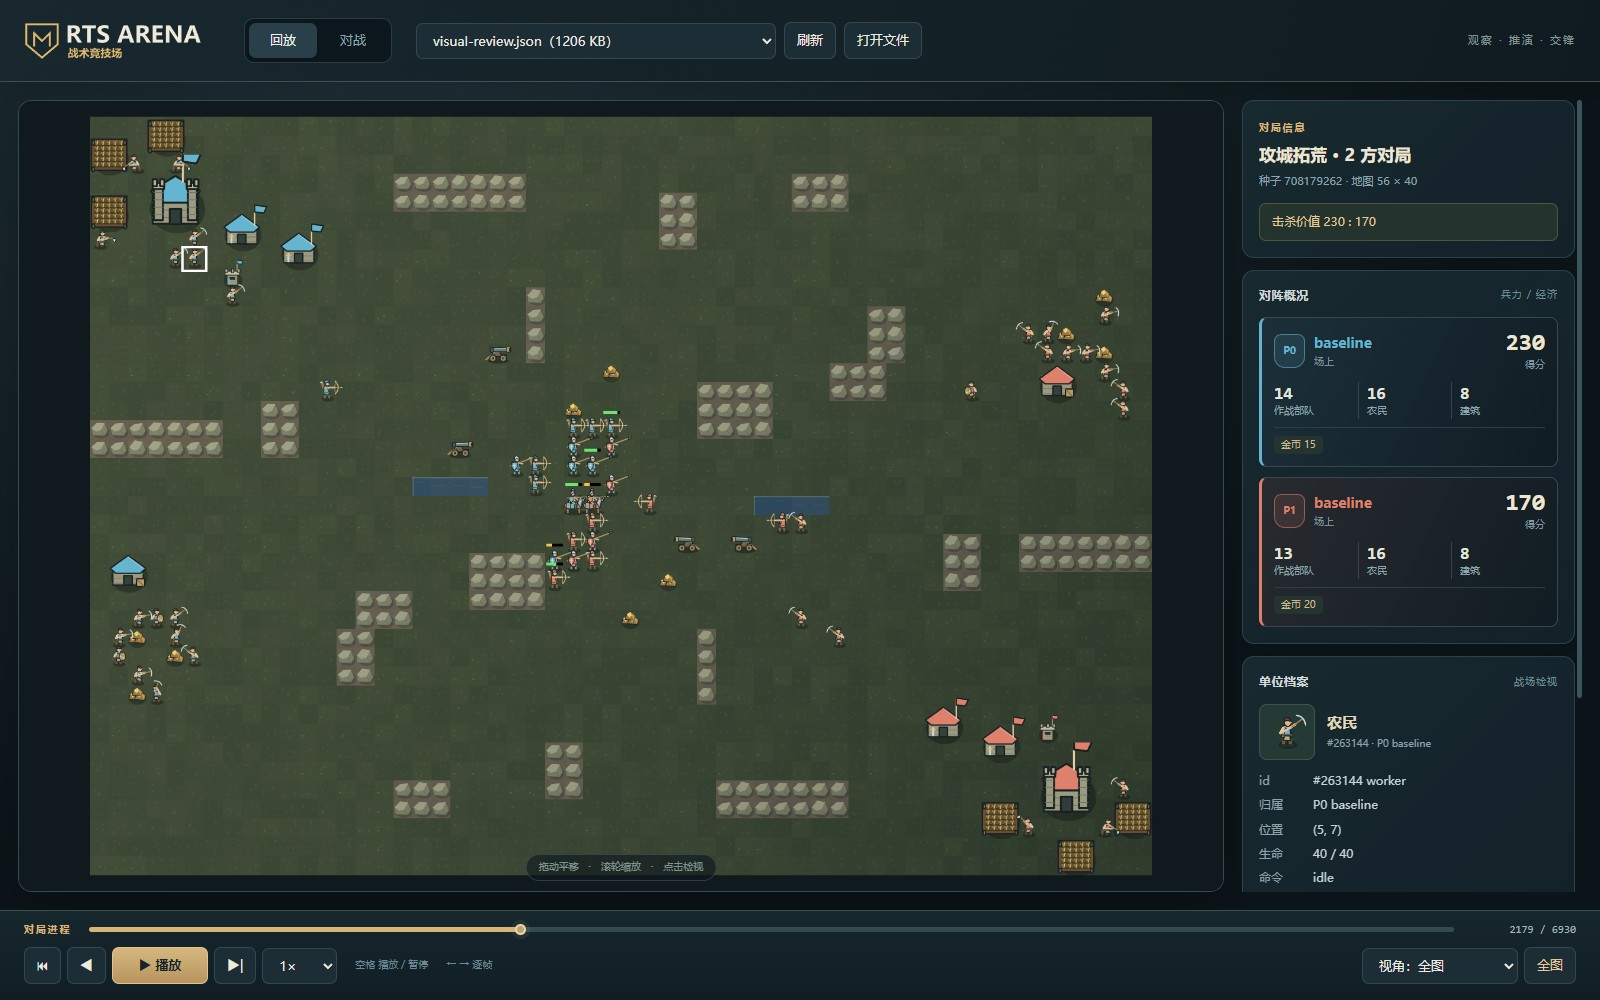
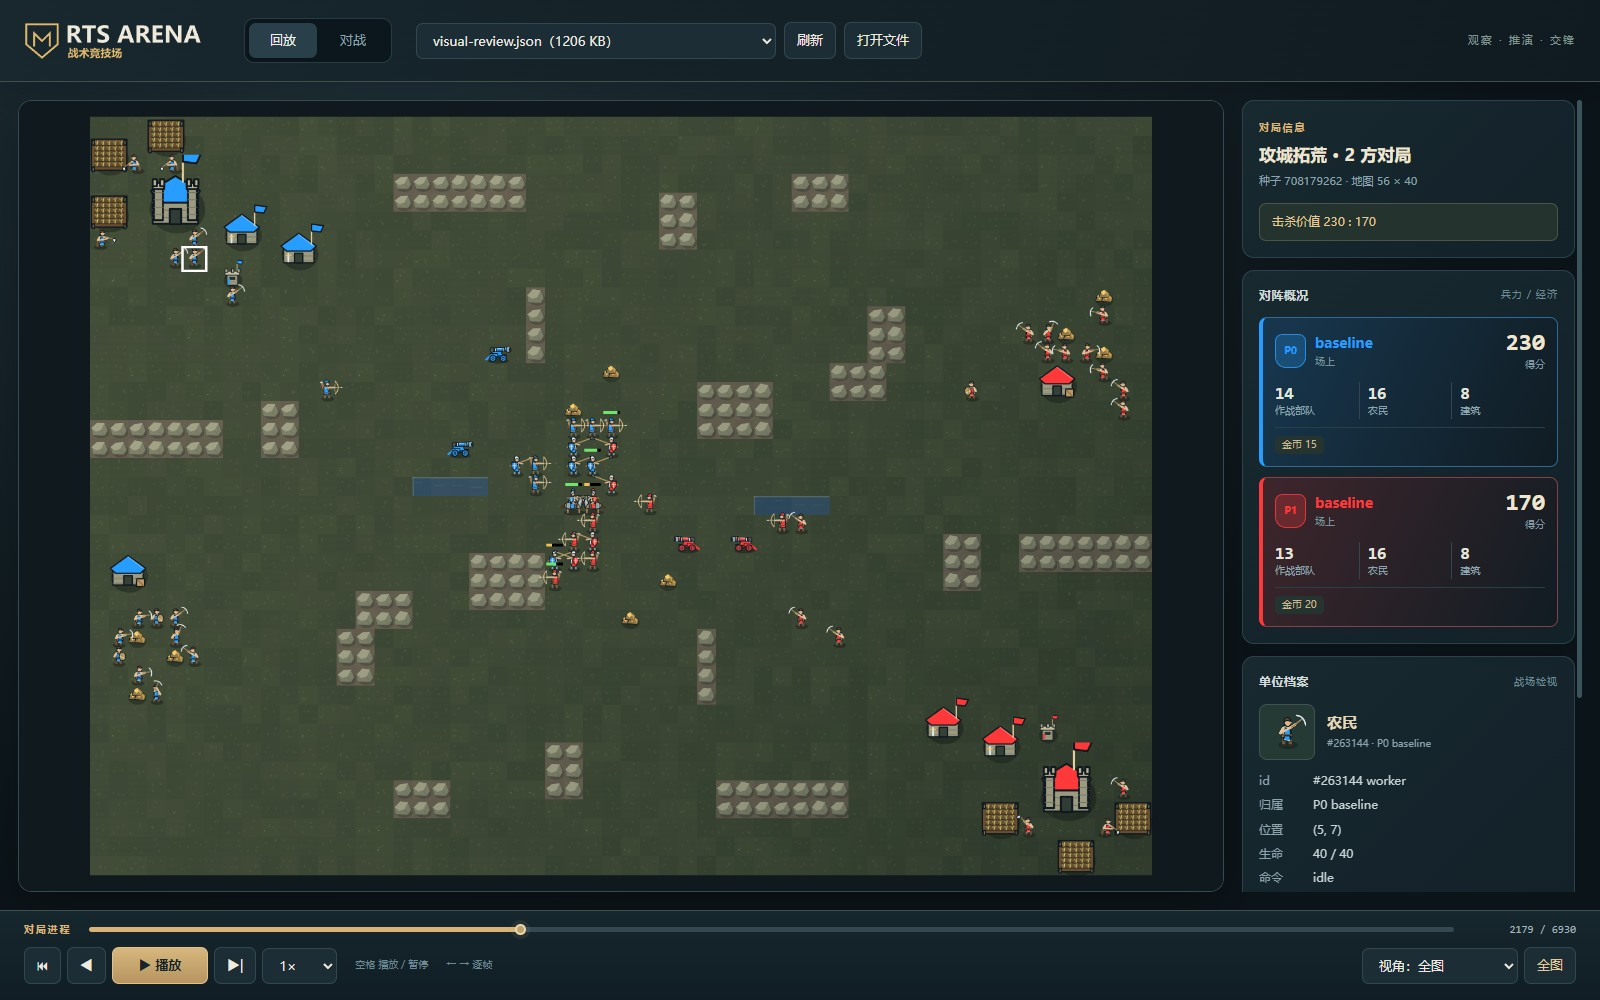
D-240：统一鲜明阵营配色，扩大火炮阵营涂装

diff --git a/src/video/battle-art.ts b/src/video/battle-art.ts
@@ -52,9 +52,9 @@ export interface BattleAttack {
 export function createBattleArt() {
   type Ink = CanvasRenderingContext2D | OffscreenCanvasRenderingContext2D
   const TAU = Math.PI * 2
-  const ink = "#182123"
-  const steel = "#c9d9da"
-  const gold = "#e3b969"
+  const ink = "#10191f"
+  const steel = "#dde8ef"
+  const gold = "#f0c35a"
   const clamp = (v: number) => Math.max(0, Math.min(1, v))
   const noise = (x: number, y: number, n = 0) => {
     let h = Math.imul(x + 113, 374761393) ^ Math.imul(y + 71, 668265263) ^ Math.imul(n + 7, 1274126177)
@@ -169,7 +169,8 @@ export function createBattleArt() {
     polygon(g, [-.14,-.28,.10,-.28,.18,.08,.09,.18,-.18,.12], "#d3c2a0")
     polygon(g, [-.075,-.21,.105,-.18,.13,.15,-.11,.14], color)
     line(g, -.15, .035, .14, .035, "#665039", .055)
-    polygon(g, [-.09,.07,.1,.07,.12,.24,-.12,.21], "#b9a785")
+    polygon(g, [-.09,.07,.1,.07,.12,.24,-.12,.21], color)
+    line(g,-.10,.20,.11,.23,"#e8d9b6",.025)
     line(g, -.13,-.19,-.22,-.035,"#e2c69e",.105)
     ellipse(g, .025, -.405, .12, .145, (p.hit ?? 0) > .5 ? "#fff4d0" : "#deb58a", ink)
     polygon(g, [-.09,-.43,-.09,-.54,.03,-.57,.12,-.49,.11,-.435,.015,-.47], "#624536")
@@ -342,7 +343,7 @@ export function createBattleArt() {
   function vehicle(g: Ink, r: string, color: string, p: BattlePose): void {
     const a=p.attack??-1, recoil=a<0?0:Math.sin(Math.PI*clamp(a/.6))*.14, walk=p.walk??0
     g.scale(Math.cos(p.angle??0)<0?-1:1,1)
-    polygon(g,[-.48,.20,.31,.20,.48,.05,-.34,.02],"#8e714a")
+    polygon(g,[-.48,.20,.31,.20,.48,.05,-.34,.02],r==="cannon"?color:"#8e714a")
     if(r==="wagon") {
       box(g,-.38,-.31,.67,.43,"#bca173")
       for(const y of [-.22,-.08,.065])line(g,-.35,y,.26,y,"#796341",.03)
@@ -350,26 +351,31 @@ export function createBattleArt() {
       for(const x of [-.26,.14])line(g,x,-.49,x,-.30,color,.08)
       line(g,.30,.13,.68,.25,"#9c7e50",.055)
     } else {
-      polygon(g,[-.21,-.19,.07,-.19,.20,.14,-.32,.14],"#746547")
-      line(g,-.17,-.12,-.25,.09,"#b99a66",.04)
+      // Broad painted carriage and barrel panels remain visible at a single tile in an overview.
+      polygon(g,[-.29,-.21,.13,-.21,.29,.15,-.40,.15],color)
+      line(g,-.26,-.16,-.34,.10,steel,.035)
+      line(g,-.31,.10,.22,.10,"#142731",.045)
       g.save();g.translate(-recoil,-.14)
-      polygon(g,[-.35,-.16,.53,-.21,.65,-.14,.65,.025,-.34,.03],"#697b79")
-      line(g,-.26,-.115,.55,-.155,"#c4d2c3",.035)
-      polygon(g,[.46,-.215,.62,-.23,.69,-.16,.69,.04,.48,.06],"#b19b6b")
+      polygon(g,[-.35,-.16,.53,-.21,.65,-.14,.65,.025,-.34,.03],color)
+      polygon(g,[-.34,-.015,.64,-.06,.65,.025,-.34,.03],"#284350","",0)
+      line(g,-.26,-.125,.53,-.17,"#edf5f8",.03)
+      polygon(g,[-.17,-.17,-.08,-.176,-.08,.023,-.17,.025],steel)
+      polygon(g,[.28,-.197,.36,-.201,.36,.025,.28,.025],steel)
+      polygon(g,[.46,-.215,.62,-.23,.69,-.16,.69,.04,.48,.06],"#8eabb9")
       ellipse(g,.655,-.08,.042,.096,"#263330",ink)
       ellipse(g,-.31,-.065,.09,.135,"#465856",ink)
       g.restore()
-      box(g,-.37,.02,.21,.15,color)
-      line(g,-.37,.10,-.61,.30,"#a98853",.09)
+      box(g,-.40,-.015,.40,.17,color)
+      line(g,-.37,.10,-.61,.30,color,.105)
     }
     for(const x of [-.26,.29]) {
-      ellipse(g,x,.24,.175,.175,"#4c4838",ink)
-      ellipse(g,x,.24,.127,.127,"#b39664")
+      ellipse(g,x,.24,.175,.175,r==="cannon"?"#151f28":"#4c4838",ink)
+      ellipse(g,x,.24,.133,.133,r==="cannon"?color:"#b39664")
       for(let n=0;n<3;n++) {
         const angle=n*Math.PI/3+walk*.5
-        line(g,x+Math.cos(angle)*.12,.24+Math.sin(angle)*.12,x-Math.cos(angle)*.12,.24-Math.sin(angle)*.12,"#67523a",.028)
+        line(g,x+Math.cos(angle)*.12,.24+Math.sin(angle)*.12,x-Math.cos(angle)*.12,.24-Math.sin(angle)*.12,r==="cannon"?"#193340":"#67523a",.028)
       }
-      ellipse(g,x,.24,.039,.039,"#d3bc8b",ink)
+      ellipse(g,x,.24,.044,.044,r==="cannon"?steel:"#d3bc8b",ink)
     }
   }
 

diff --git a/src/video/render.ts b/src/video/render.ts
@@ -9,6 +9,7 @@ import { findBrowser, launchBrowser } from "./browser.ts"
 import { checkScript, codeFacts, contestantNames, highlightPlayerWarnings, playerGames, PLAYER_PAGE_CHARS, PLAYER_PAGE_MIN, readSeries, resolveBotFile, RULES_PAGE_CHARS, SCRIPT_LIMITS, scriptWarnings, type SeriesFile, type VideoScript } from "./brief.ts"
 import { installVideoPage, type ReplayFrame, type SceneData } from "./page.ts"
 import { createBattleArt, type BattleAttack } from "./battle-art.ts"
+import { FACTION_COLORS, FACTION_COLOR_NAMES } from "./battle-colors.ts"
 import { faceToward, farmWorkers, homeFacing, legacySplashEffects, trainingQueue, workerPose } from "./visual-state.ts"
 import { battleCameraTrack } from "./battle-camera.ts"
 import { excitement, gameFacts } from "../cli/highlights.ts"
@@ -24,9 +25,9 @@ export function gameReasons(replay: Replay, seatNames: string[]): string[] {
   return excitement(f, null, sideName).reasons
 }
 
-export const PALETTE = ["#66b5d0", "#de806b", "#8cbc84", "#e4c278", "#b398d1", "#72c9bc", "#e2a36a", "#aab75e"]
+export const PALETTE = FACTION_COLORS
 /** 每个选手在视频里的颜色（按参赛顺序），写在 PROMPT.md 里 */
-export const PALETTE_NAMES = ["蓝", "红", "绿", "黄", "紫", "青", "橙", "草绿"]
+export const PALETTE_NAMES = FACTION_COLOR_NAMES
 
 /** 两个颜色看上去差多少（CIE Lab 空间里的距离，D-230） */
 export function colorGap(a: string, b: string): number {
@@ -43,8 +44,8 @@ export function colorGap(a: string, b: string): number {
 }
 /** 一局里两家的颜色差得比这还少就算分不清（D-230：绿和草绿 40、黄和橙 26、黄和草绿 38，用户：不知道哪个兵是谁家的） */
 const CLOSE_COLORS = 50
-/** 换色用的备选：调色板加一个粉色 */
-const SPARE_COLORS = [...PALETTE, "#ff7eb6"]
+/** 换色用的备选：鲜明阵营色，再加白色用于人数很多的对局。 */
+const SPARE_COLORS = [...PALETTE, "#ffffff"]
 /**
  * 一局里每个参赛者（编号）用什么颜色（D-230）：keep 那个用自己的颜色，其余的按出现的顺序，和前面已经定下的颜色太近（或者撞色）就换成
  * 和它们都差得最多的备选色。只在这一局里换，选手页、片尾还是原来的颜色

diff --git a/viewer/src/style.css b/viewer/src/style.css
@@ -4,7 +4,7 @@
   --line: #304346;
   --text: #eee9db;
   --muted: #95a7aa;
-  --accent: #66b5d0;
+  --accent: #269dff;
   --err: #ff7a7a;
   --warn: #f2b94e;
   color-scheme: dark;
@@ -444,10 +444,10 @@ aside>.panel.grow { min-height:170px; flex:1 0 170px; }
 .panel h3 { color:#d0dbd9; font-size:12px; margin-bottom:13px; letter-spacing:.4px; }
 .panel-caption { color:#6f8b96; font-weight:400; font-size:10px; letter-spacing:1px; }
 #players { display:flex; flex-direction:column; gap:10px; max-height:360px; overflow:auto; }
-.player-card { position:relative; border:1px solid #354850; border-left:3px solid var(--player-color); border-radius:8px; background:linear-gradient(115deg,color-mix(in srgb,var(--player-color) 10%,#142129),#101c23); padding:12px; }
+.player-card { position:relative; border:1px solid color-mix(in srgb,var(--player-color) 40%,#354850); border-left:4px solid var(--player-color); border-radius:8px; background:linear-gradient(115deg,color-mix(in srgb,var(--player-color) 18%,#142129),#101c23); padding:12px; }
 .player-card.eliminated { opacity:.55; }
 .player-heading { display:flex; align-items:center; gap:9px; }
-.player-seat { width:31px; height:34px; display:grid; place-items:center; font-size:10px; font-weight:700; border:1px solid color-mix(in srgb,var(--player-color) 55%,transparent); color:var(--player-color); background:color-mix(in srgb,var(--player-color) 12%,transparent); border-radius:7px 7px 11px 11px; }
+.player-seat { width:31px; height:34px; display:grid; place-items:center; font-size:10px; font-weight:700; border:1px solid color-mix(in srgb,var(--player-color) 80%,transparent); color:var(--player-color); background:color-mix(in srgb,var(--player-color) 24%,transparent); border-radius:7px 7px 11px 11px; }
 .player-identity { flex:1; min-width:0; }
 .player-name { color:var(--player-color); font-size:14px; font-weight:650; overflow-wrap:anywhere; }
 .player-sub { color:#79929a; font-size:10px; margin-top:2px; }

diff --git a/viewer/src/render.ts b/viewer/src/render.ts
@@ -2,12 +2,13 @@
 import { Application, CanvasSource, Container, Graphics, Sprite, Text, Texture } from "pixi.js"
 import type { EntSnap, Marker, Replay } from "../../src/core/types.ts"
 import { createBattleArt, type BattleAttack, type BattlePose, type BattleType } from "../../src/video/battle-art.ts"
+import { FACTION_COLORS } from "../../src/video/battle-colors.ts"
 import { faceToward, farmWorkers, homeFacing, legacySplashEffects, trainingQueue, workerPose } from "../../src/video/visual-state.ts"
 import type { Delta, State } from "./model.ts"
 import { Vision } from "./vision.ts"
 
 export const TILE = 16
-export const PLAYER_COLORS = [0x66b5d0, 0xde806b, 0x8cbc84, 0xe4c278, 0xb398d1, 0x72c9bc]
+export const PLAYER_COLORS = FACTION_COLORS.map(color => parseInt(color.slice(1), 16))
 const NEUTRAL = 0x9aa0a6
 
 export function playerColor(owner: number | null | undefined): number {

diff --git a/src/video/battle-colors.ts b/src/video/battle-colors.ts
@@ -1,0 +1,3 @@
+/** Vivid faction colours shared by the web viewer and video renderer. */
+export const FACTION_COLORS = ["#269dff", "#ff3939", "#52de35", "#ffda24", "#b76bff", "#16dcd4", "#ff9026", "#ff59b8"]
+export const FACTION_COLOR_NAMES = ["蓝", "红", "绿", "黄", "紫", "青", "橙", "粉"]

diff --git a/doc/设计.md b/doc/设计.md
@@ -36,6 +36,7 @@
 | D-117 | 平台装成本地命令 rts-arena，每人只维护自己的 bot 目录（arena.json 记规则包和 bot 文件）；对战服务以后再做 | 用户拍板（先做第一层） |
 | D-119 | 建造命令：下命令时立即放地基、立即扣钱；占地要都在己方视野里、没有任何实体（含单位）；工人贴着地基每 tick 干 1 份，多人叠加；拆地基退 75% | 用户要求"工人能造兵营"；具体规则是我定的，理由见第 13 节 |
 | D-120 | 新规则包「拓荒」frontier：开局没有兵营，工人可建兵营、箭塔、仓库，摧毁主基地获胜 | 用户要求"做一个支持建造的模式"；玩法和数值是我定的 |
+| D-240 | **提高阵营配色对比度，增加火炮阵营涂装**：网页与视频共用 battle-colors.ts 的高饱和蓝、红、绿、黄、紫、青、橙、粉；近似色对阵仍自动换色。服装、盾牌、屋顶和旗帜跟随阵营色，金属与暗色轮廓拉开明暗。火炮炮架、炮身面板、拖架和轮圈大面积使用阵营色，保留金属箍、炮口和轮辐；农民下摆也用阵营色，网页队伍卡片加强彩色边框与底色。 | 用户：「配色对比度太低了，太淡了」「更希望像红警那样的鲜明配色」「炮的颜色势力色太少了，没有区分度」 |
 | D-239 | **竖屏片尾按竖屏单独排版，去掉「完整版看横屏长视频」**：原来竖屏片尾是把横屏片尾缩小贴在中间（字很小）、上面再写一遍总结、下面写「完整版看横屏长视频」，现在只出竖屏版、没有对应的横屏长视频了。改成 page.ts vBrandClose：总结大字（clauseLines 按，；。！？断行，行数尽量少，不把「战局」这种词拆开）、平台标志、「本视频由 RTS Arena 联赛视频接口自动生成」、gitee 和 GitHub 地址各一行、「选手」和名单（人多时行距收紧），整块竖直居中，淡入节奏和横屏一样。至此竖屏每种场景都单独排版，横屏画面缩进竖屏的 landCanvas、vFrame 删掉 | 用户（竖屏片尾截图）：「现在没有完整长视频了，结尾不用这么写，而且上面的也应该重新排版」 |
 | D-238 | **网页播放器去掉操作提示**：回放地图底部的「拖动平移 · 滚轮缩放 · 点击检视」提示条、没打开回放时空白页里的「拖动平移 · 滚轮缩放 · 点击单位查看详情」都删掉（拖动、滚轮、点击是约定俗成的操作）；README、教程里的快捷键说明留着 | 用户：「这个不需要显示，这是约定俗成的操作不需介绍」 |
 | D-237 | **片尾之前加回联赛排名页，排名和两两对阵胜负合成一页**：D-225 删掉的排名页（D-221）和对战胜负页（D-223）合成一页「联赛排名」，放在最后一个选手的高光对局之后、片尾之前，横竖屏都有。和 `rts-arena league` 的输出一样：一行一个 bot（按名次），名次、胜-平-负、得分率（条 + 百分比），后面接它对每个对手的胜负（列也按名次；两人局是行对列的胜-负、有平局写胜-平-负，多人局是同一局里排在前面-后面的次数；格子绿色赢多输少、红色输多赢少，越悬殊越深）；平台自带的参考 bot 也列上、标灰写「陪练」。排名页的平均数据列（D-221）和克制关系那句（D-223）不加回来。时长按人数算 3.5～6 秒，脚本不用写。横屏列头是名字；竖屏每行左边是名次和名字、下面一行小字胜-平-负和得分率，列头是名次 | 用户：「结尾仓库介绍之前再把联赛同款的互相胜败的排名加回去吧」 |

diff --git a/doc/联赛视频指南.md b/doc/联赛视频指南.md
@@ -54,6 +54,8 @@
 
 所有兵种统一采用站立侧视造型：剑盾兵持剑盾，枪兵持长枪，弓兵带弓与箭筒，重骑兵配骑枪、甲胄与马铠，领主有王冠和披风；火炮、运输车和牲畜也采用侧视轮廓。朝向通过左右转身表达，人物不会跟着地面方向旋转倾倒。
 
+阵营采用高饱和蓝、红、绿、黄等配色，网页与视频共用同一份色板；火炮的炮身面板、炮架和轮圈均有大面积阵营涂装，缩小到全图时也能辨认归属。金属亮部和深色轮廓强化装备区别；双方颜色相近时，视频继续自动调整对手的颜色。
+
 横屏、竖屏的回放在交战时都平滑放大主要战团（一段交战里只死 0～1 个单位的不放大，照旧看全图）；竖屏下方的小地图、横屏地图右上角的小地图显示全局和当前取景框，横屏进度条旁写「主战场 2.8×」；进入非交战快进段后，镜头在约 0.7 秒内退回完整地图，随后保持全图，结算时也显示全图。常见 56 格宽地图约放大到 2.8 倍（画面里横着看到 20 格），竖屏一格单位从约 17 像素增至约 49 像素（1080 像素宽输出、常规标题长度时），横屏从约 22 像素增至约 61 像素。镜头根据真实攻击记录选择交战区域，预览、跳转和连续导出使用同一条轨迹。
 
 视频和网页回放使用深色战术台样式：双方数据卡突出分数、军队、工人和建筑数量，战况另设面板。网页回放默认适配完整地图，对局标题与击杀等状态信息集中在右侧，地图上方不再显示标题栏或计时；下方集中放置进度和播放控制。点击单位可查看兵种小像与档案，窄屏时面板移到地图下方。切到玩家视角时，敌方隐藏数据仍按视野规则处理。
